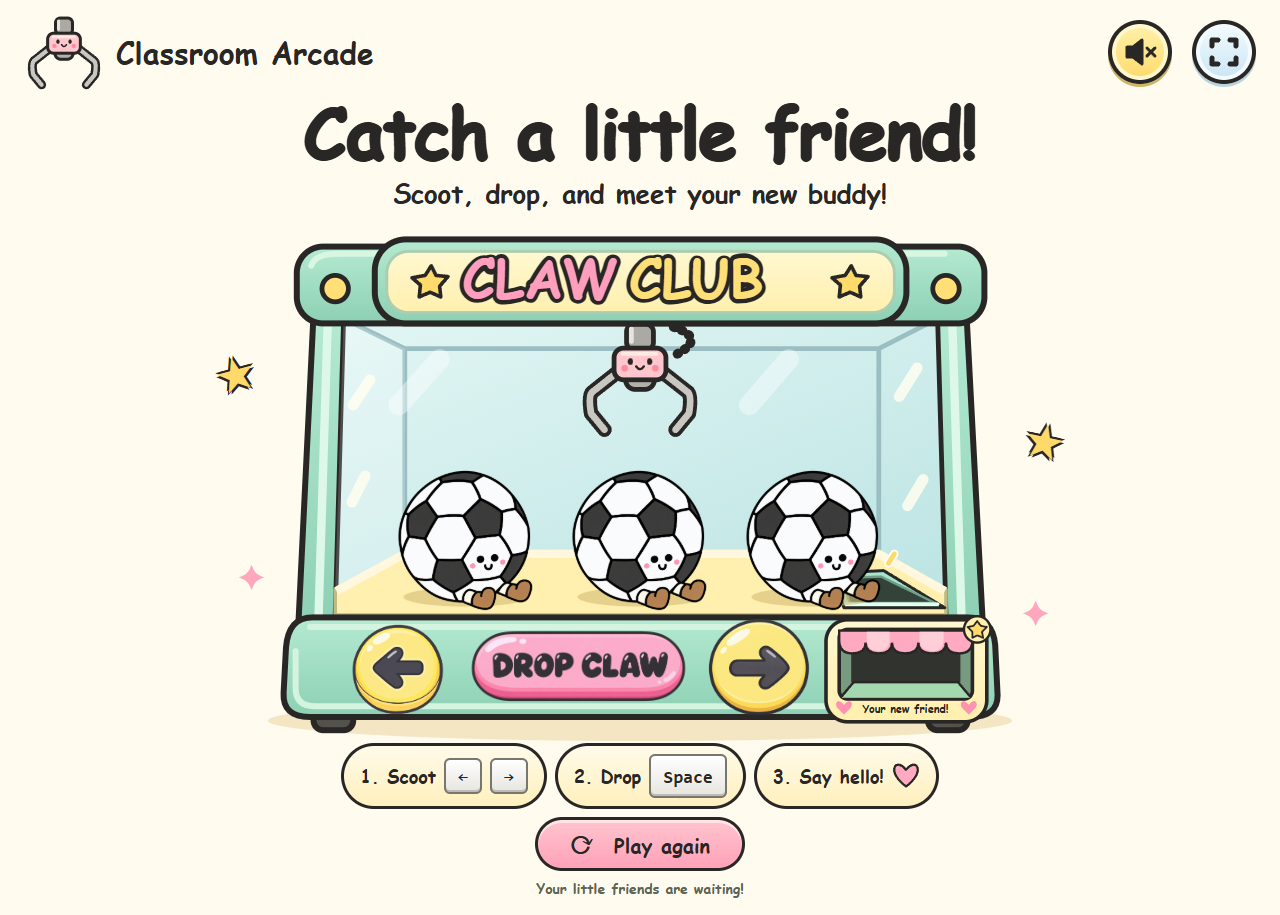
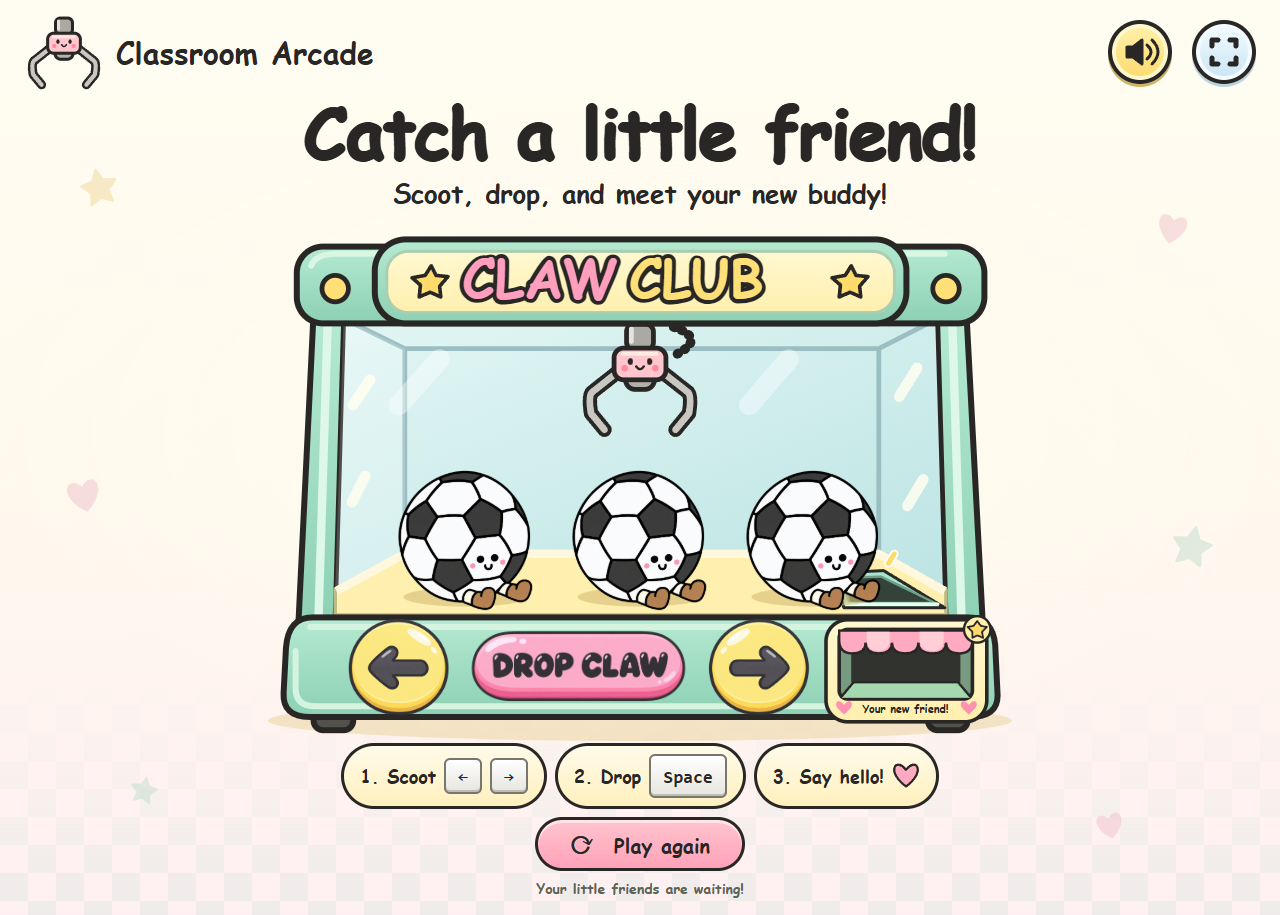
changed background

diff --git a/app/components/ClawGame.vue b/app/components/ClawGame.vue
@@ -93,9 +93,10 @@ onUnmounted(() => {
 
 
 <template>
-  <main ref="game" tabindex="0" aria-label="Claw Club game. Arrow keys to move, Space to drop or play again after a catch." class="min-h-screen bg-[#fffbee] px-3 py-3 font-sans text-[#292725] outline-none focus-visible:ring-4 focus-visible:ring-inset focus-visible:ring-violet-500 sm:px-6" @keydown="keyDown" @keyup="keyUp" @focusout="stop" @pointerdown.capture="musicOnButton" @click.capture="musicOnButton">
+  <main ref="game" tabindex="0" aria-label="Claw Club game. Arrow keys to move, Space to drop or play again after a catch." class="relative isolate min-h-screen bg-gradient-to-b from-[#fffdf2] via-[#fff9ed] to-[#fff0f3] px-3 py-3 font-sans text-[#292725] outline-none focus-visible:ring-4 focus-visible:ring-inset focus-visible:ring-violet-500 sm:px-6" @keydown="keyDown" @keyup="keyUp" @focusout="stop" @pointerdown.capture="musicOnButton" @click.capture="musicOnButton">
+    <GameBackdrop />
     <audio ref="backgroundMusic" src="/audio/yummy-flavor.mp3" loop preload="none" aria-hidden="true" />
-    <header class="mx-auto flex max-w-[1400px] items-center justify-between gap-2">
+    <header class="relative z-10 mx-auto flex max-w-[1400px] items-center justify-between gap-2">
       <div class="flex items-center gap-1 text-base font-black sm:gap-3 sm:text-3xl">
         <svg viewBox="-64 -38 128 132" aria-hidden="true" class="h-14 w-14 sm:h-20 sm:w-20"><ClawIllustration /></svg>
         <span>Classroom Arcade</span>
@@ -109,14 +110,10 @@ onUnmounted(() => {
         </button>
       </div>
     </header>
-    <section class="mx-auto max-w-[min(1100px,118vh)] text-center">
+    <section class="relative z-10 mx-auto max-w-[min(1100px,118vh)] text-center">
       <h1 class="text-[clamp(2rem,5.5vw,4.8rem)] leading-[1.12] font-black tracking-tight [text-shadow:1px_0_0_currentColor,-1px_0_0_currentColor,0_1px_0_currentColor,0_-1px_0_currentColor]">Catch a little friend!</h1>
       <p class="mt-1 text-sm font-bold sm:text-[clamp(1rem,2vw,1.7rem)]">Scoot, drop, and meet your new buddy!</p>
       <div class="relative mx-auto mt-1 max-w-[min(1000px,80vh)] sm:mt-2">
-        <div aria-hidden="true" class="pointer-events-none absolute -left-[9%] top-[25%] hidden rotate-[-15deg] text-5xl text-[#ffda6a] [text-shadow:2px_2px_0_#292725,-2px_-2px_0_#292725,2px_-2px_0_#292725,-2px_2px_0_#292725] xl:block">★</div>
-        <div aria-hidden="true" class="pointer-events-none absolute -right-[9%] top-[38%] hidden rotate-12 text-5xl text-[#ffda6a] [text-shadow:2px_2px_0_#292725,-2px_-2px_0_#292725,2px_-2px_0_#292725,-2px_2px_0_#292725] xl:block">★</div>
-        <div aria-hidden="true" class="pointer-events-none absolute -left-[6%] top-[65%] hidden text-4xl text-[#ffa8bd] xl:block">✦</div>
-        <div aria-hidden="true" class="pointer-events-none absolute -right-[7%] top-[72%] hidden text-4xl text-[#ffa8bd] xl:block">✦</div>
         <GameScene :phase="phase" :x="x" :y="y" :closure="closure" :prizes="prizes" :caught="caught" :won="won" :fall="fall" @aim="windowAim" />
         <GameControls class="absolute bottom-[4%] left-[9%] h-[18%] w-[65%]" :disabled="!available" :direction="direction" @move="move" @stop="stop" @drop="startDrop" />
       </div>
@@ -138,6 +135,7 @@ onUnmounted(() => {
     </section>
   </main>
 </template>
+
 
 
 

diff --git a/app/components/GameControls.vue b/app/components/GameControls.vue
@@ -10,7 +10,7 @@ function hold(event: PointerEvent, direction: number) {
 <template>
   <div class="flex items-center justify-center gap-1 sm:gap-3">
     <button aria-label="Move claw left" :disabled="disabled" class="h-full w-[24%] touch-none rounded-full focus-visible:outline-4 focus-visible:outline-offset-2 focus-visible:outline-violet-600 disabled:opacity-50" @pointerdown.prevent="hold($event, -1)" @pointerup="emit('stop')" @pointercancel="emit('stop')" @lostpointercapture="emit('stop')" @keydown.enter.prevent="emit('move', -1)" @keydown.space.prevent.stop="emit('move', -1)" @keyup="emit('stop')" @blur="emit('stop')">
-      <img :src="`/images/left-button-${direction === -1 ? 'normal' : 'pressed'}.png`" alt="" class="h-full w-full scale-125 object-contain" draggable="false" />
+      <img :src="`/images/right-button-${direction === -1 ? 'pressed' : 'normal'}.png`" alt="" class="h-full w-full scale-125 -scale-x-125 object-contain" draggable="false" />
     </button>
     <button :disabled="disabled" aria-label="Drop claw" class="w-[52%] rounded-full focus-visible:outline-4 focus-visible:outline-offset-2 focus-visible:outline-violet-600 active:translate-y-1 disabled:opacity-50" @click="emit('drop')">
       <img :src="`/images/drop-button-${disabled ? 'pressed' : 'normal'}.png`" alt="Drop claw" class="w-full" draggable="false" />
@@ -20,5 +20,6 @@ function hold(event: PointerEvent, direction: number) {
     </button>
   </div>
 </template>
+
 
 

diff --git a/app/components/GameBackdrop.vue b/app/components/GameBackdrop.vue
@@ -1,0 +1,21 @@
+<script setup lang="ts">
+const doodles = [
+  { shape: 'star', classes: 'left-[3%] top-[18%] h-7 w-7 -rotate-12 text-[#e9cc85] sm:left-[6%] sm:h-11 sm:w-11' },
+  { shape: 'heart', classes: 'right-[3%] top-[23%] h-6 w-6 rotate-12 text-[#e9b3c4] sm:right-[7%] sm:h-9 sm:w-9' },
+  { shape: 'heart', classes: 'left-[2%] top-[52%] h-6 w-6 -rotate-12 text-[#e9b3c4] sm:left-[5%] sm:h-10 sm:w-10' },
+  { shape: 'star', classes: 'right-[2%] top-[57%] h-8 w-8 rotate-12 text-[#b2d7c4] sm:right-[5%] sm:h-12 sm:w-12' },
+  { shape: 'star', classes: 'left-[10%] bottom-[12%] hidden h-8 w-8 rotate-12 text-[#b2d7c4] sm:block' },
+  { shape: 'heart', classes: 'right-[12%] bottom-[8%] hidden h-8 w-8 -rotate-12 text-[#e9b3c4] sm:block' },
+]
+</script>
+
+<template>
+  <div aria-hidden="true" class="pointer-events-none absolute inset-0 z-0 overflow-hidden select-none">
+    <div class="absolute inset-x-0 top-[12%] h-[70%] bg-[radial-gradient(ellipse_at_center,#fffdf0_0%,#fffbeecc_35%,transparent_72%)]" />
+    <svg v-for="(doodle, index) in doodles" :key="index" viewBox="0 0 40 40" class="absolute fill-current stroke-current opacity-40" :class="doodle.classes" stroke-width="2" stroke-linejoin="round">
+      <path v-if="doodle.shape === 'star'" d="M20 4L25 14L36 16L28 24L30 35L20 30L10 35L12 24L4 16L15 14Z" />
+      <path v-else d="M20 12C8-4-6 15 20 35C46 15 32-4 20 12Z" />
+    </svg>
+  </div>
+</template>
+
